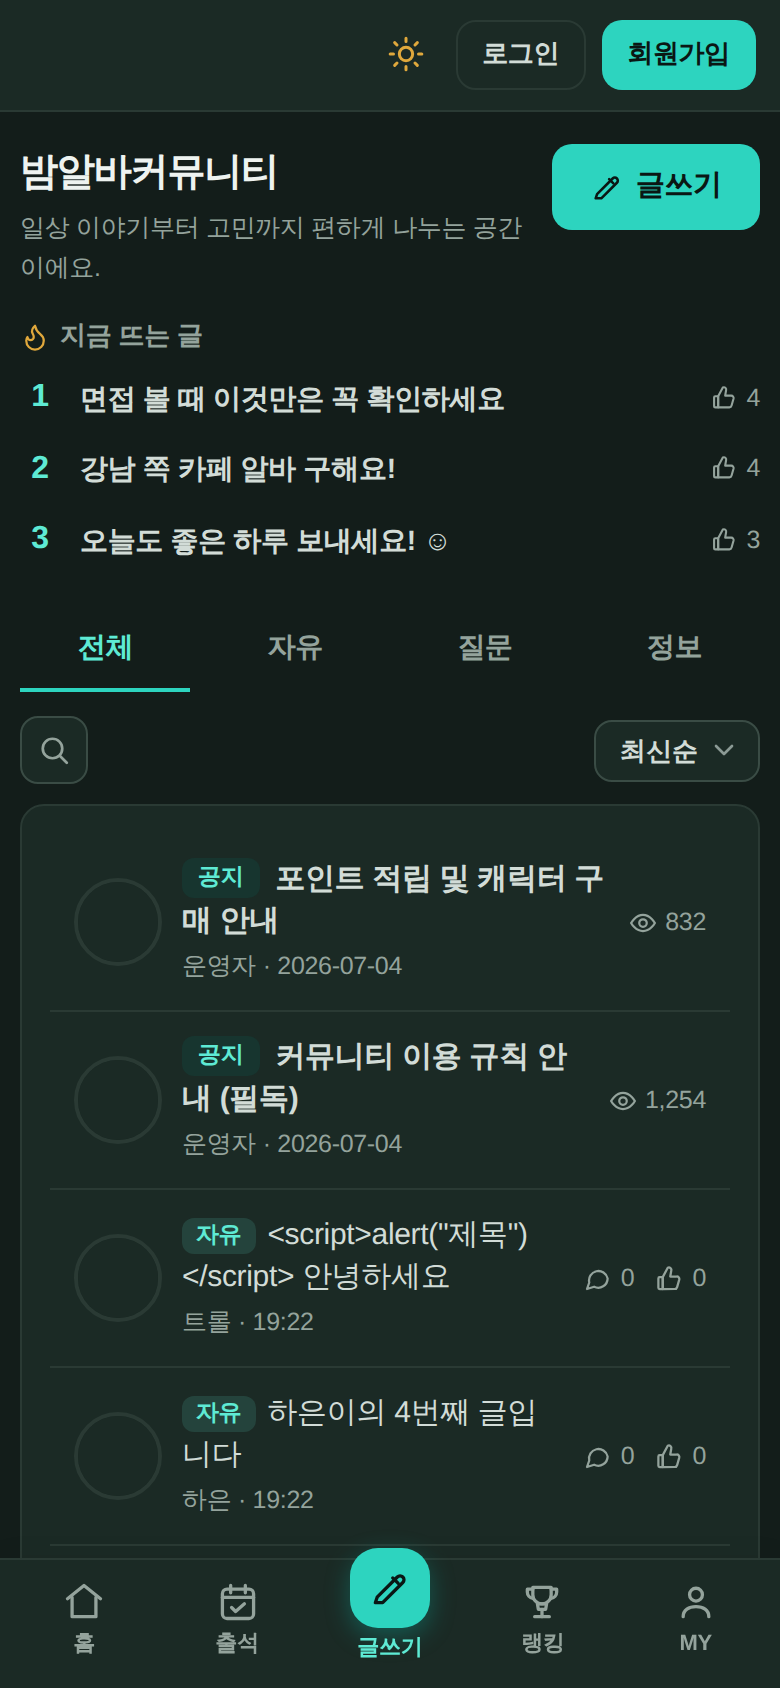
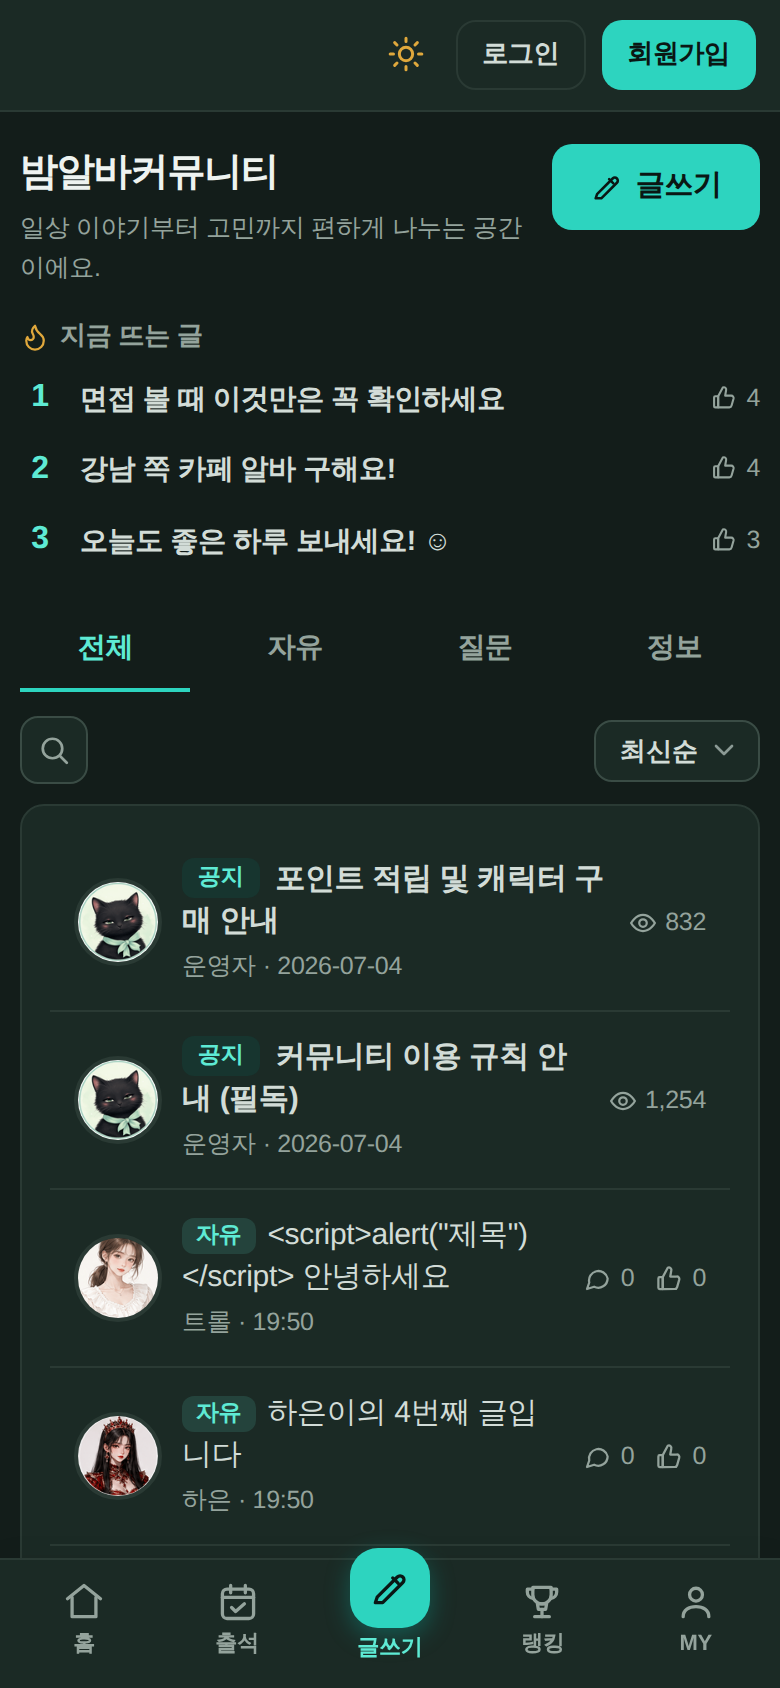
테두리 문제의 진짜 원인 + 이 종류를 잡는 검사 추가
원인을 다시 짚었다. 잘려 나간 게 아니라 CSS 우선순위였다.
style.css 의 .avatar-ring { width: 132% } 가 위쪽 .avatar img { width: 100% } 에게
져서 통째로 무시됐다. 그래서 고리가 얼굴과 같은 크기로 그려졌고, 가운데 뚫린
구멍(60%)만큼만 얼굴이 보이고 나머지는 고리가 덮었다. 문법 오류가 아니라
조용히 무시되는 종류라 어디에도 흔적이 없었다.

- 고리·얼굴 크기를 CSS 에서 빼고 src/avatars.js 가 요소에 직접 붙인다.
  인라인 스타일은 어떤 선택자도 못 이겨서 같은 사고가 다시 안 난다.
  (RING 1.32 · FACE 0.76 · 실측 구멍 0.586 → 구멍 0.77 ≥ 얼굴 0.76)
- test/avatar-ring.test.js: 테두리 PNG 9장을 직접 읽어 구멍을 재고
  '구멍 ≥ 얼굴' 을 확인한다. 옛 값으로 되돌리면
  '구멍이 0.61 인데 얼굴이 1 라 19.5% 씩 겹친다' 로 잡힌다.
- 페르소나 스크린샷이 그림 뜨기 전에 찍혀 아바타가 빈 동그라미였다.
  다 뜰 때까지 기다리게 하고, 찍을 때마다 '잘라내는 상자 밖으로 삐져나간 그림'도
  함께 검사한다.
- docs/테스트계획.md 에 왜 못 잡았는지와 남는 한계를 적었다.

테스트 185개 통과 (테두리 기하 4개 추가) · 페르소나 13명 발견 0건

Claude-Session: https://claude.ai/code/session_01YCdAwc7RYVjpxFG4NihFKh

diff --git a/test/avatar-ring.test.js b/test/avatar-ring.test.js
@@ -1,0 +1,82 @@
+// 테두리(고리)와 얼굴의 크기가 서로 맞는지
+//
+// 이 검사가 왜 있냐면:
+// 고리 그림은 가운데가 뚫려 있어서, 고리를 얼굴보다 충분히 키우지 않으면
+// 고리가 얼굴 위로 올라와 얼굴을 가로지른다. 그런데 그렇게 그려져도
+// 화면에는 오류가 없고, 요소도 제자리에 있고, 흐름 검사·대비 검사도 전부 통과한다.
+// 눈으로 봐야만 보이는 결함이라 실제로 배포까지 나갔다가 지적을 받았다.
+//
+// 그래서 '보이는 것'을 숫자로 바꿔서 검사한다.
+// 고리 PNG 를 직접 읽어 구멍이 얼마나 뚫려 있는지 재고, 그 구멍이 얼굴보다 큰지 본다.
+const test = require('node:test');
+const assert = require('node:assert');
+const fs = require('fs');
+const path = require('path');
+const sharp = require('sharp');
+
+const avatars = require('../src/avatars');
+const DIR = path.join(__dirname, '..', 'public', 'avatars');
+const borders = avatars.borders ? avatars.borders() : avatars.items().filter((i) => i.kind === 'border');
+
+// 그림 한가운데에서 바깥으로 훑어, 처음 색이 나타나는 곳까지가 '구멍'이다.
+// 여러 방향으로 재서 가운뎃값을 쓴다 (반짝이는 장식 몇 점에 휘둘리지 않게).
+async function holeRatio(file) {
+  const { data, info } = await sharp(path.join(DIR, file))
+    .ensureAlpha().raw().toBuffer({ resolveWithObject: true });
+  const { width: W, height: H, channels: C } = info;
+  const cx = W / 2;
+  const cy = H / 2;
+  const solid = (x, y) => data[((y | 0) * W + (x | 0)) * C + 3] > 16;
+
+  const found = [];
+  for (let k = 0; k < 16; k++) {
+    const t = (k * Math.PI) / 8;
+    for (let r = 1; r < W / 2; r += 0.5) {
+      const x = cx + Math.cos(t) * r;
+      const y = cy + Math.sin(t) * r;
+      if (x < 0 || y < 0 || x >= W || y >= H) break;
+      if (solid(x, y)) { found.push(r); break; }
+    }
+  }
+  found.sort((a, b) => a - b);
+  return (found[Math.floor(found.length / 2)] * 2) / W; // 지름 기준 비율
+}
+
+test('테두리 그림은 모두 가운데가 뚫린 고리다', async () => {
+  assert.ok(borders.length > 0, '테두리가 하나도 없다');
+  for (const b of borders) {
+    assert.ok(fs.existsSync(path.join(DIR, b.file)), `${b.file} 이 없다`);
+    const hole = await holeRatio(b.file);
+    assert.ok(hole > 0.4 && hole < 0.8,
+      `${b.code}: 구멍이 ${(hole * 100).toFixed(0)}% — 고리 모양이 아니거나 그림이 바뀌었다`);
+  }
+});
+
+test('고리 구멍이 얼굴보다 커야 한다 (안 그러면 고리가 얼굴을 가로지른다)', async () => {
+  const { RING, FACE } = avatars;
+  for (const b of borders) {
+    const hole = await holeRatio(b.file);
+    const 구멍 = RING * hole; // 화면에서 구멍이 차지하는 폭 (칸 대비)
+    assert.ok(구멍 >= FACE,
+      `${b.code}: 고리를 ${RING}배로 그리면 구멍이 ${구멍.toFixed(2)} 인데`
+      + ` 얼굴이 ${FACE} 라 ${((FACE - 구멍) / 2 * 100).toFixed(1)}% 씩 겹친다`);
+  }
+});
+
+test('실측한 구멍 비율이 코드에 적어둔 값과 맞는다', async () => {
+  let min = 1;
+  for (const b of borders) min = Math.min(min, await holeRatio(b.file));
+  assert.ok(Math.abs(min - avatars.RING_HOLE) < 0.03,
+    `실측 최솟값 ${min.toFixed(3)} vs 코드의 RING_HOLE ${avatars.RING_HOLE}`
+    + ' — 테두리 그림이 바뀌었으면 RING_HOLE 도 같이 고쳐야 한다');
+});
+
+test('크기는 CSS 가 아니라 요소에 직접 붙는다 (우선순위에 지지 않게)', () => {
+  const chars = avatars.characters ? avatars.characters() : avatars.items().filter((i) => i.kind !== 'border');
+  const html = avatars.renderAvatar(chars[0].code, borders[0].code, 44);
+  assert.match(html, /class="avatar-ring"[^>]*style="width:132%/, '고리 크기가 붙어 있어야 한다');
+  assert.match(html, /class="avatar-face"[^>]*style="width:76%/, '얼굴 크기가 붙어 있어야 한다');
+  // 테두리를 안 낀 아바타는 예전처럼 칸을 꽉 채운다
+  const plain = avatars.renderAvatar(chars[0].code, null, 44);
+  assert.ok(!plain.includes('style="width:76%'), '고리가 없으면 얼굴을 줄이지 않는다');
+});

diff --git a/scripts/persona-test.js b/scripts/persona-test.js
@@ -64,11 +64,70 @@ async function waitUp(base = BASE) {
 }
 
 // ---- 브라우저 도우미 -----------------------------------------------------------
+// 화면에 보이는 그림이 다 뜰 때까지 기다린다.
+// 이걸 안 하면 스크린샷에 아바타 자리가 빈 동그라미로 찍힌다 — 증거로 남기는 사진인데
+// 정작 봐야 할 것이 안 찍혀 있으면 나중에 아무도 잘못을 알아볼 수 없다.
+// (화면 밖의 lazy 이미지는 영영 안 뜨므로 기다리지 않는다)
+async function settle(pg, timeout = 3000) {
+  await pg.waitForFunction(() => [...document.images]
+    .filter((i) => {
+      const r = i.getBoundingClientRect();
+      return r.width > 0 && r.top < innerHeight * 1.2 && r.bottom > -innerHeight * 0.2;
+    })
+    .every((i) => i.complete), null, { timeout }).catch(() => {});
+}
+
 async function shot(pg, name) {
   fs.mkdirSync(SHOT_DIR, { recursive: true });
+  await settle(pg);
   const file = `${current.id}-${name}.png`;
   await pg.screenshot({ path: path.join(SHOT_DIR, file) });
+  await checkClipped(pg, name);
   return file;
+}
+
+// 그림이 잘려 나가는 곳 찾기
+//
+// 테두리(고리) 그림이 아바타보다 커서 바깥쪽이 통째로 잘려 나가고, 안쪽 줄만 얼굴 위에
+// 남아 있던 적이 있다. 화면은 오류 없이 잘 그려지고 요소도 제자리에 있어서
+// 흐름 검사·대비 검사로는 전혀 걸리지 않았다. 눈으로 봐야만 보이는 결함이었다.
+// 그래서 '자르는 상자(overflow:hidden) 밖으로 삐져나간 그림'을 직접 재서 찾는다.
+const clipSeen = new Set();
+async function checkClipped(pg, where) {
+  const cut = await pg.evaluate(() => {
+    const out = [];
+    for (const img of document.images) {
+      const r = img.getBoundingClientRect();
+      if (r.width < 4 || r.height < 4) continue;
+      for (let el = img.parentElement; el; el = el.parentElement) {
+        const st = getComputedStyle(el);
+        // 스크롤로 볼 수 있는 상자는 잘린 게 아니다 — 아예 잘라 버리는 것만 본다
+        if (!/^(hidden|clip)$/.test(st.overflowX) && !/^(hidden|clip)$/.test(st.overflowY)) {
+          if (st.position === 'fixed') break;
+          continue;
+        }
+        const b = el.getBoundingClientRect();
+        const over = Math.max(b.left - r.left, r.right - b.right, b.top - r.top, r.bottom - b.bottom);
+        // 반올림 오차 한 픽셀과, 일부러 조금 넘겨 깔끔하게 맞추는 경우는 넘어간다
+        if (over > 2 && over / Math.max(r.width, r.height) > 0.06) {
+          out.push({
+            what: (img.className || img.alt || img.src.split('/').pop()).slice(0, 40),
+            box: (el.className || el.tagName).toString().slice(0, 40),
+            pct: Math.round((over / Math.max(r.width, r.height)) * 100),
+          });
+        }
+        break; // 가장 가까운 자르는 상자 하나만 본다
+      }
+    }
+    return out;
+  }).catch(() => []);
+
+  for (const c of cut) {
+    const key = `${c.what}|${c.box}`;
+    if (clipSeen.has(key)) continue; // 같은 것을 화면마다 다시 적지 않는다
+    clipSeen.add(key);
+    note('BUG', '그림이 잘려 나간다', `${where}: "${c.what}" 이(가) "${c.box}" 밖으로 ${c.pct}% 잘림`);
+  }
 }
 
 // 페이지가 오류 화면인지 (우리 error.ejs 는 .auth-card.center 를 쓴다)

diff --git a/src/avatars.js b/src/avatars.js
@@ -134,22 +134,45 @@ const url = (file) => `${AVATAR_BASE_URL}/${encodeURIComponent(file)}`;
 // 캐릭터 25칸짜리 상점에서만 1MB 가까이 나간다 (썸네일이면 200KB 남짓).
 const THUMB_UP_TO = 96;
 
+// 테두리(고리)를 낀 아바타의 크기 규칙.
+//
+// 받은 테두리 그림 9종은 모두 가운데가 뚫린 고리이고, 그 구멍이 그림 폭의 약 59% 다
+// (RING_HOLE — test/avatar-ring.test.js 가 실제 PNG 를 재서 확인한다).
+// 그래서 고리를 칸보다 키워야(RING) 구멍이 얼굴을 감싸고, 얼굴은 그 구멍 안에 들어가야(FACE) 한다.
+//   구멍 = RING × RING_HOLE = 1.32 × 0.586 ≒ 0.77  ≥  얼굴 0.76  ✅
+// 이 값을 지키지 않으면 고리가 얼굴 위로 올라와 얼굴을 가로지른다.
+//
+// 크기를 CSS 가 아니라 여기서 붙이는 이유:
+// 예전에는 style.css 에 `.avatar-ring { width: 132% }` 로 뒀는데, 위쪽에 있던
+// `.avatar img { width: 100% }` 가 우선순위에서 이겨 132% 가 통째로 무시됐다.
+// 화면에는 오류 없이 잘 그려지고, 고리도 제자리에 있어서 아무도 알아채지 못했다.
+// 요소에 직접 붙이면 어떤 선택자도 이길 수 없어서 같은 일이 다시 생기지 않는다.
+const RING = 1.32;   // 고리를 칸의 몇 배로 그릴지
+const FACE = 0.76;   // 얼굴을 칸의 몇 배로 그릴지 (= 고리 구멍 안)
+const RING_HOLE = 0.586; // 고리 그림에서 구멍이 차지하는 비율 (실측 최솟값 — border-blue)
+
 function renderAvatar(avatarCode, borderCode, size = 44) {
   const a = get(avatarCode) || fallback();
   const b = borderCode ? get(borderCode) : null;
+  const ringed = !!(b && b.kind === 'border');
+  const faceStyle = ringed
+    ? ` style="width:${FACE * 100}%;height:${FACE * 100}%;margin:${((1 - FACE) / 2) * 100}%"`
+    : '';
   const img = a
-    ? `<img class="avatar-face" src="${url(size <= THUMB_UP_TO ? a.thumb : a.file)}" alt="" loading="lazy">`
+    ? `<img class="avatar-face" src="${url(size <= THUMB_UP_TO ? a.thumb : a.file)}"${faceStyle} alt="" loading="lazy">`
     : '';
   // 고리도 마찬가지다. 테두리 목록(9칸)에서만 원본이 281KB, 썸네일이면 53KB.
-  const ring = b && b.kind === 'border'
-    ? `<img class="avatar-ring" src="${url(size <= THUMB_UP_TO ? b.thumb : b.file)}" alt="" loading="lazy">`
+  const ring = ringed
+    ? `<img class="avatar-ring" src="${url(size <= THUMB_UP_TO ? b.thumb : b.file)}"`
+      + ` style="width:${RING * 100}%;height:${RING * 100}%" alt="" loading="lazy">`
     : '';
-  // 고리를 낀 아바타는 그리는 방식이 달라서 표시를 남긴다 (자세한 건 style.css 의 .has-ring)
-  return `<span class="avatar${ring ? ' has-ring' : ''}" style="width:${size}px;height:${size}px">${img}${ring}</span>`;
+  // 고리를 끼면 잘라내기를 풀어야 한다 (style.css 의 .has-ring)
+  return `<span class="avatar${ringed ? ' has-ring' : ''}" style="width:${size}px;height:${size}px">${img}${ring}</span>`;
 }
 
 module.exports = {
   MEMBER_TYPES, FREE_PER_TYPE, CHARACTER_PRICE, BORDER_PRICE,
+  RING, FACE, RING_HOLE,
   items: () => ITEMS, characters, borders, get, fallback, themes, theme, THEME_NOTES,
   starterFor, canUse, renderAvatar, load,
 };

diff --git a/public/css/style.css b/public/css/style.css
@@ -1306,16 +1306,14 @@ h3 { letter-spacing: -0.02em; color: var(--ink); }
 }
 /* 테두리는 캐릭터보다 조금 크게 덮어씌운다 (고리가 얼굴을 가리지 않도록) */
 /* 테두리(고리)를 낀 아바타
-   받은 테두리 그림 9종은 모두 가운데가 뚫린 고리인데, 뚫린 구멍이 그림 폭의 약 60%,
-   고리 바깥이 약 83% 다. 그래서 아바타와 같은 크기로 얹으면 고리가 얼굴 위로 올라오고,
-   .avatar 가 overflow:hidden 이라 바깥쪽은 잘려 나가 얼굴을 가로지르는 금색 줄만 남았다.
-   고리를 132% 로 키우면 구멍이 132×0.6 ≒ 79% 가 되므로, 얼굴을 그 안(78%)에 넣으면
-   고리가 얼굴을 감싼다. 잘리지 않게 overflow 도 풀고, 회색 테두리선은 뺀다. */
+   고리와 얼굴의 '크기'는 여기가 아니라 src/avatars.js 가 요소에 직접 붙인다.
+   예전에 여기서 `width: 132%` 로 뒀다가 위쪽 `.avatar img { width: 100% }` 에게
+   우선순위로 져서 통째로 무시된 적이 있다 (그래서 고리가 얼굴을 덮었다).
+   여기서는 자리와 잘라내기만 정한다. */
 .avatar.has-ring { overflow: visible; border: none; background: none; }
-.avatar.has-ring .avatar-face { width: 78%; height: 78%; margin: 11%; }
 .avatar-ring {
   position: absolute; left: 50%; top: 50%; transform: translate(-50%, -50%);
-  width: 132%; height: 132%; pointer-events: none;
+  pointer-events: none;
 }
 
 /* ---- 캐릭터 상점 ---- */

diff --git a/docs/테스트계획.md b/docs/테스트계획.md
@@ -71,3 +71,36 @@ node scripts/persona-test.js P1 P6    # 골라서
 - 발견은 던지지 않고 모읍니다. 하나 실패해도 끝까지 갑니다.
 - 화면은 `docs/persona/` 에 증거로 남습니다.
 - 결과는 `docs/페르소나테스트.md` 로 나옵니다.
+
+## 3회차 — 자동 검사가 못 잡던 것 (테두리 사건)
+
+테두리(고리)가 얼굴을 가로질러 그려지고 있었는데, 페르소나 13명이 **발견 0건**으로
+통과했습니다. 배포까지 나가서 사람이 눈으로 보고 지적했습니다. 왜 못 잡았는지:
+
+| | 왜 못 봤나 |
+|---|---|
+| 단위 테스트 | "고리 태그가 있는가"만 확인 — **크기**는 안 봤다 |
+| 흐름 테스트 | 화면은 200 OK, 요소도 제자리. 아무 문제 없음 |
+| 대비 검사 | 글자 색만 잰다. 그림끼리 겹치는 건 대상이 아니다 |
+| 스크린샷 | **남기기만 하고 아무도 안 열어봤다.** 게다가 그림이 뜨기 전에 찍혀 아바타 자리가 빈 동그라미였다 |
+
+원인도 흔한 종류였습니다. `style.css` 의 `.avatar-ring { width: 132% }` 가
+위쪽 `.avatar img { width: 100% }` 에게 **우선순위에서 져서** 통째로 무시됐습니다.
+문법 오류가 아니라 조용히 무시되는 종류라 어디에도 흔적이 남지 않습니다.
+
+그래서 세 가지를 넣었습니다.
+
+1. **크기를 CSS 에서 뺐습니다.** 고리·얼굴 크기는 `src/avatars.js` 가 요소에 직접
+   붙입니다. 인라인 스타일은 어떤 선택자도 이기지 못해 같은 사고가 다시 안 납니다.
+2. **눈으로 보던 것을 숫자로 바꿨습니다.** `test/avatar-ring.test.js` 가 테두리 PNG 9장을
+   직접 읽어 구멍 크기를 재고, `구멍 ≥ 얼굴` 인지 확인합니다.
+   옛 코드로 되돌려 돌려보면 `구멍이 0.61 인데 얼굴이 1 라 19.5% 씩 겹친다` 로 잡힙니다.
+3. **스크린샷이 진실을 담게 했습니다.** 찍기 전에 그림이 다 뜰 때까지 기다리고,
+   찍을 때마다 *잘라내는 상자 밖으로 삐져나간 그림*이 있는지 함께 검사합니다.
+
+### 남는 한계 (정직하게)
+
+이 셋으로도 **"되긴 하는데 못생겼다"** 는 못 잡습니다. 간격이 어색하다, 색이 진하다,
+글씨가 크다 — 전부 이번에 같이 받은 지적인데 기계가 판정할 수 있는 종류가 아닙니다.
+이런 건 **사람이 보거나**, 이전 화면과 비교(visual regression)해서 *달라진 곳*을
+사람에게 보여주는 수밖에 없습니다. 지금은 전자로 갑니다.

diff --git a/docs/페르소나테스트.md b/docs/페르소나테스트.md
@@ -1,7 +1,7 @@
 # 페르소나 테스트 결과
 
-돌린 때: 2026. 8. 4. PM 7:22:46
-페르소나 13명 · 41초 · 발견 0건
+돌린 때: 2026. 8. 4. PM 7:50:42
+페르소나 13명 · 49초 · 발견 0건
 
 | 종류 | 뜻 | 건수 |
 |---|---|---:|
